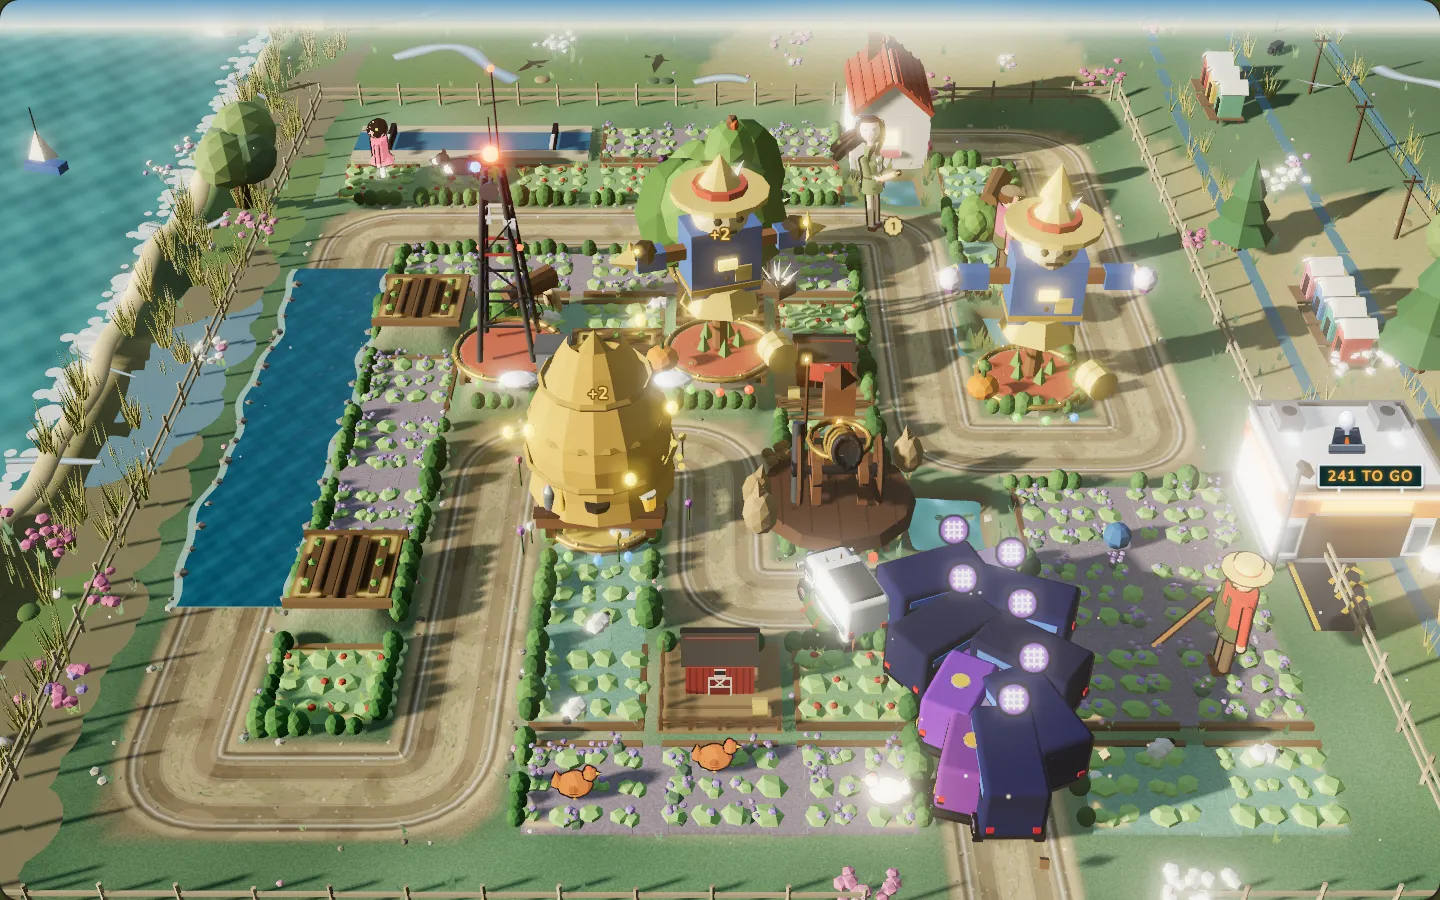
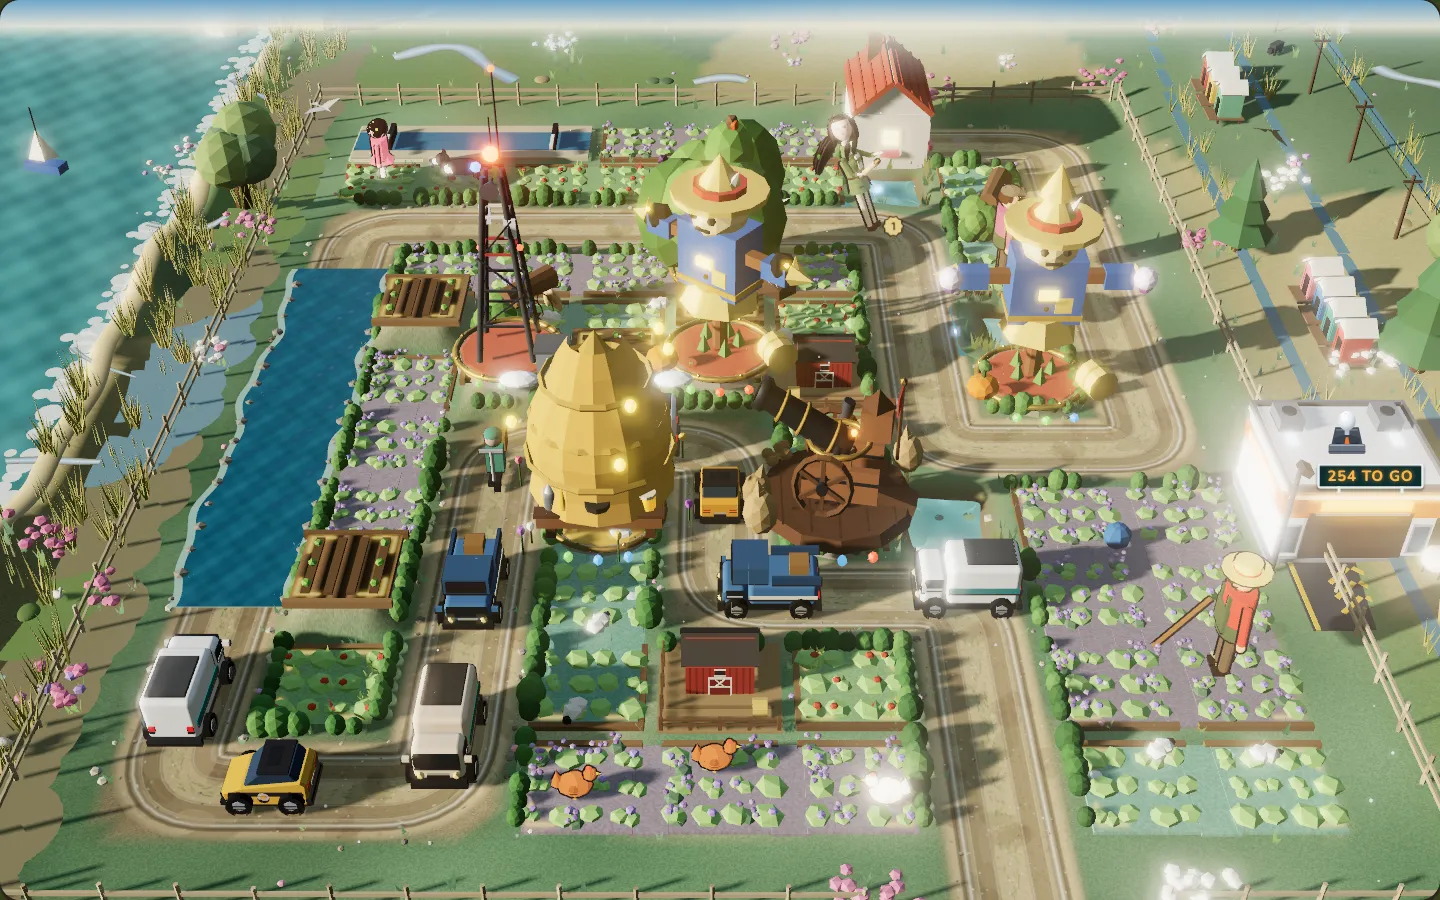
553 done: Hedgerow key art shot on a laid-out convoy held by a sandbox freeze (no stacked overflow blob); plan notes
Claude-Session: https://claude.ai/code/session_01SimvMRA6zXqqi6CsciayLF

diff --git a/games/hedgerow/src/main.ts b/games/hedgerow/src/main.ts
@@ -473,6 +473,8 @@ let runSavedWave = -1;
 /** Which abilities were ready last frame (a tick under the thumb when one comes back). */
 const wasReady: Record<Ability, boolean> = { pie: false, neighbours: false, rally: false };
 let paused = false;
+/** Sandbox only (item 553): the sim held for a key-art frame, without the pause note or the paused dim. */
+let frozen = false;
 let aiming = false;
 let last = 0;
 let acc = 0;
@@ -792,6 +794,10 @@ if (SANDBOX)
     story: (id: number) => {
       const lv = LEVELS.find((l) => l.id === id);
       if (lv) showStory(lv.before, lv.place, () => {}, actOf(lv));
+    },
+    // Item 553: stop the sim for a key-art frame the script laid out (no pause note: the controls aren't synced).
+    freeze: () => {
+      frozen = true;
     },
     spawn: (kind: EnemyKind, dist: number) => game && game.enemies.push(makeEnemy(game, kind, dist, undefined, game.wave || 1)),
     cellCenter: (c: number, r: number) => renderer?.cellCenter(c, r) ?? null,
@@ -5460,7 +5466,7 @@ function frame(now: number): void {
   const g = game;
   const dt = Math.min(0.1, (now - last) / 1000);
   last = now;
-  if (!paused && !introHold && !ui.dlgStory.open && !ui.dlgResult.open && !ui.dlgUnlock.open) {
+  if (!paused && !frozen && !introHold && !ui.dlgStory.open && !ui.dlgResult.open && !ui.dlgUnlock.open) {
     if (!player && g.phase === "build" && g.wave > 0 && g.wave < g.level.waves.length && autoNext) {
       // Hold the countdown while the player is choosing something.
       if (!selected && !posting && !aiming) autoLeft -= dt * speed;

diff --git a/docs/plan/two-week-plan.md b/docs/plan/two-week-plan.md
@@ -5396,7 +5396,7 @@ Progress (lane B, 2026-11-19 02:50, slices 1-2, `2c24709`, `86ee3f0`): each towe
   - cathode-front and cathode-title specs pass (P and D); posters re-rendered if the title's sources change; shots P, D and 844x390.
 - **Size:** 2
 
-## 553. [ ] The bugs from the 2026-11-20 05:00 critique, fixed as one batch *(lane A, in progress)*
+## 553. [x] The bugs from the 2026-11-20 05:00 critique, fixed as one batch *(done 2026-11-20 05:35, lane A, 93ca256f and the key-art slice: every point fixed, checked or moved below; campaign-map/-atlas, campaign, producer-line, table-producers, phone-hand-fan/-dock, hand-art, setup-steps (P, D; 4 load flakes passing alone), campaign-map-layout, producer-lines, css lint, keyart-fresh; shots e2e/screenshots/a553)*
 - `cath-game-D` (1218-1398 x 350-435): the producers' bubble 'Favourite pair, she says. Mara, she means me.' has its tail on Mara, but Tomas is speaking. Name or point at the speaker. **Fixed 05:10 lane A:** the bubble names its speaker in their colour, and a slid bubble's tail points at its own seat (`--pl-tail`).
 - `cath-game-D` (1000-1150 x 820-860): 'Supply 1 Outlet · Brindle Hills' wraps with a stray leading '·'. **Fixed 05:10 lane A:** on every hand card the region takes its own line, without the dot.
 - `cath-game-P` (300-370 x 595-612): the '9 more' pill overlaps the top-right of the last fanned card. **Fixed 05:10 lane A:** the tab's foot now meets the counter's lip (top -17 px, was -13).
@@ -5408,7 +5408,7 @@ Progress (lane B, 2026-11-19 02:50, slices 1-2, `2c24709`, `86ee3f0`): each towe
 - `hedge-l34-2d-D`: the 'Same-Day van' label (330-455 x 708-728) over its vans; 'Box Lorry' (250-345 x 240-258) over the lorry. **Checked, kept:** at 2x each tag sits clear beside its lead vehicle (item 72's staged threat).
 - `ns-title-D` (905-960 x 470-540): Cath's glove passes through the umbrella shaft. **Moved to item 543** (her 3D hands).
 - `ns-play-P` (2x, y 1030-1130): an empty band between 'HER LINE' and the stat sheet. **Left to item 538** (lane B's class pick, in progress): the sheet docks to the foot, the band is the slack.
-- `portfolio-D` (1100-1220 x 445-520), `games-D` (890-960 x 630-700): purple glow blobs in Hedgerow's key art read as a glitch at thumbnail size.
+- `portfolio-D` (1100-1220 x 445-520), `games-D` (890-960 x 630-700): purple glow blobs in Hedgerow's key art read as a glitch at thumbnail size. **Fixed 05:35 lane A:** the blob was the queue's overflow, item 45's stacked column by the gate (a left-running wave has about 80 out by SwiftShader's first frames). `scripts/keyart.mjs` now starts the round, lays nine vehicles out in one file along the lane (`spawn`) and holds the sim (`window.hedgerow.freeze`, sandbox only, no pause note); Hedgerow's key art re-shot.
 - `games-P` (30-380 x 512-558): 'Play today's Runnel' thin italic, low contrast; 'Browse the games' reads disabled. **Checked, kept:** chalk 700 on the brass-lit slate and cream on the plank (5.9:1, item 222), item 409's deliberate lead.
 - **Accept:** each point fixed, or checked and noted here; shots P and D.
 - **Size:** 1
